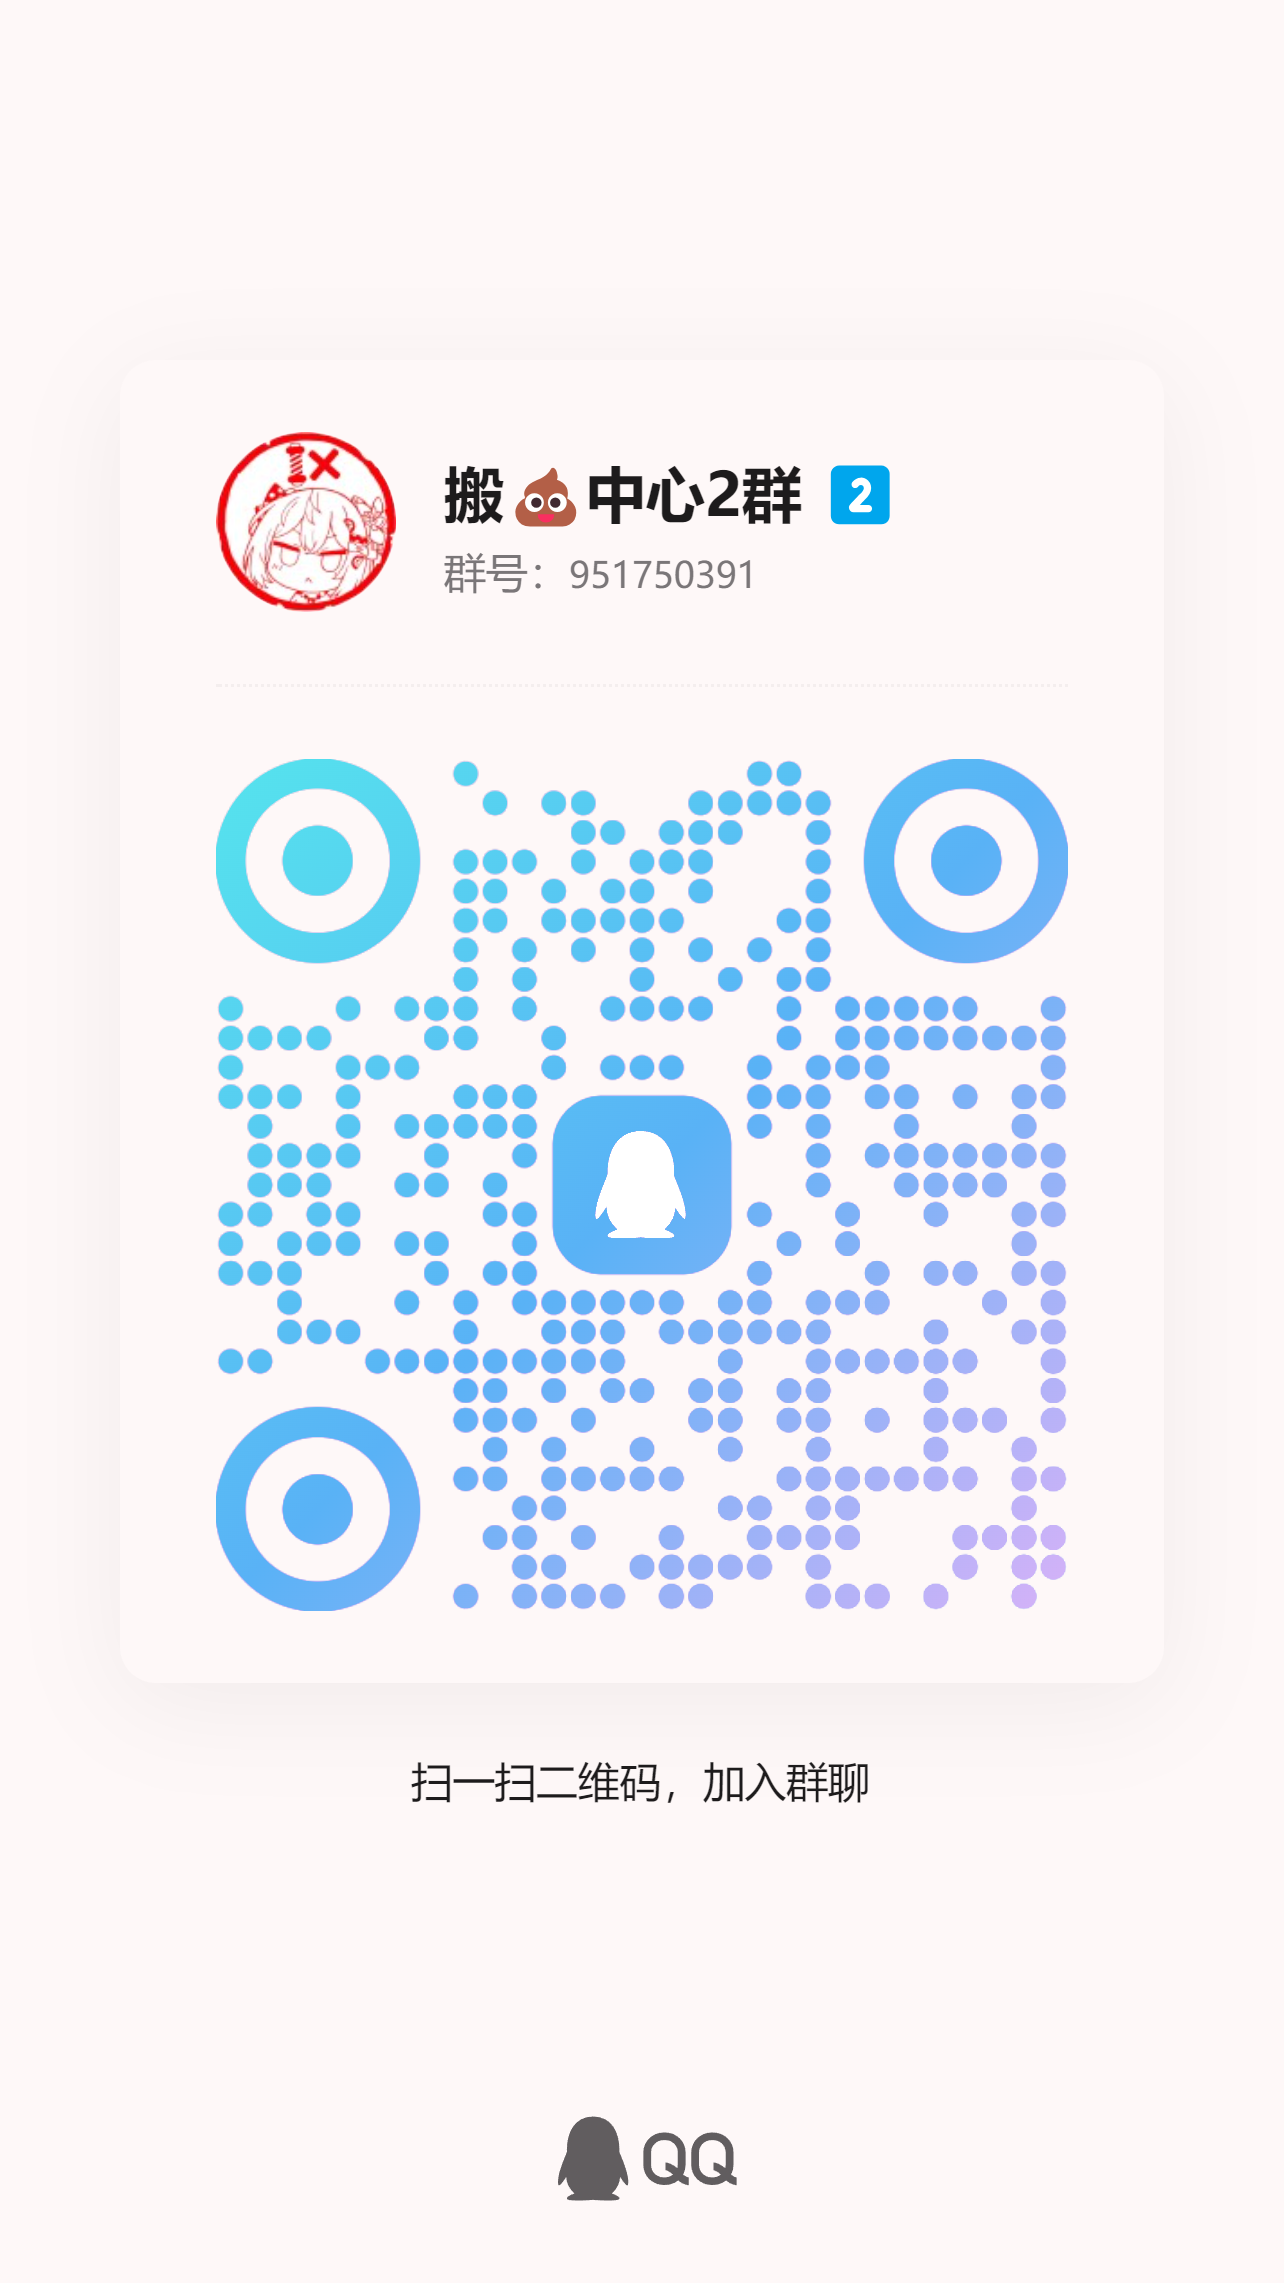
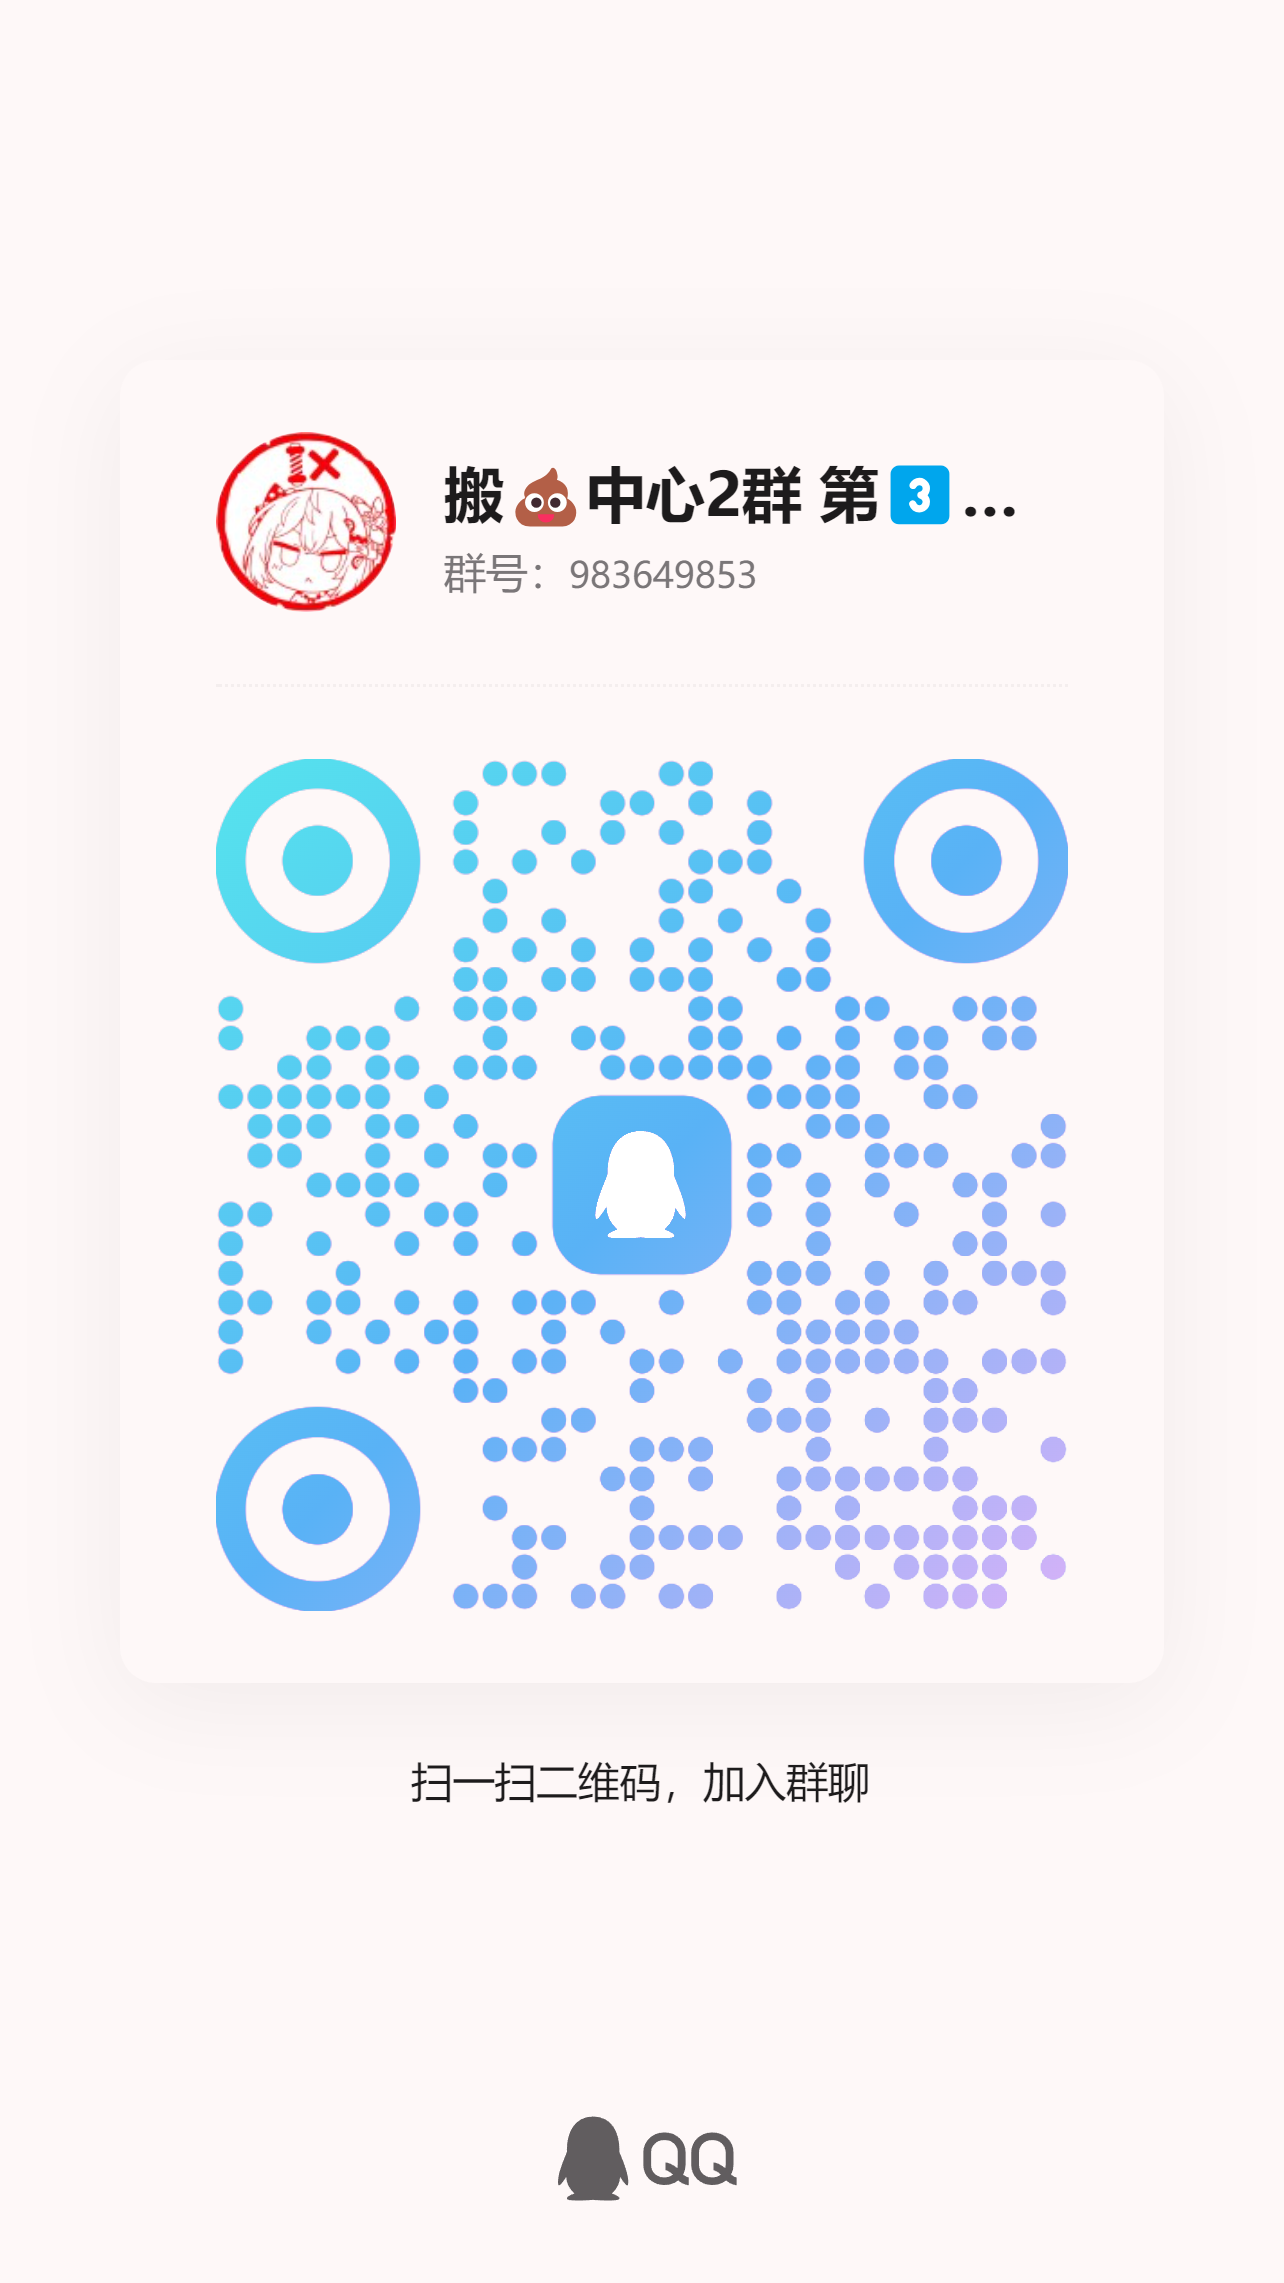
update

diff --git a/source/_posts/9-21-二群第三次爆炸.md b/source/_posts/9-21-二群第三次爆炸.md
@@ -1,0 +1,22 @@
+---
+title: 9.21 二群第三次爆炸
+date: 2025-09-21 12:04:30
+tags:
+---
+
+猜测原因应该和一群一致
+某些消息触发 qq 封禁机制自动炸群
+
+相关群聊已重建, 链接及二维码已更新
+
+{% flink %}
+
+- class_name: 点我跳转
+  link_list:
+
+  - name: 搬史中心入口
+    link: /sowing_discord_center/groups/
+    avatar:
+    descr: (其实它就在顶栏)
+
+{% endflink %}

diff --git a/source/groups/index.md b/source/groups/index.md
@@ -32,8 +32,8 @@ date: 2025-09-16 10:57:46
 二维码:
 {% img /images/qrcode_group_1.jpg 250 "一群" %}
 
-2 群：951750391
-链接: https://qm.qq.com/q/avnlvufs2c
+2 群：983649853
+链接: https://qm.qq.com/q/2FG7T6ukdi
 二维码:
 {% img /images/qrcode_group_2.jpg 250 "二群" %}
 
